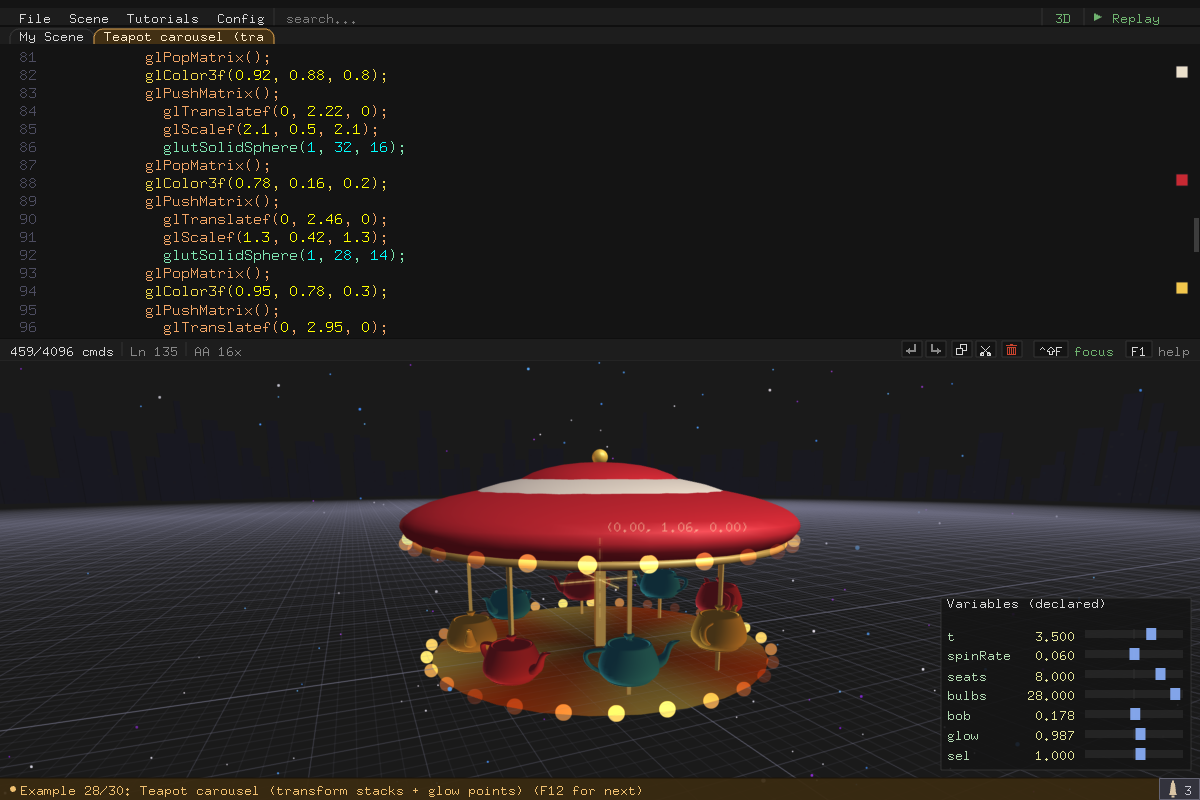
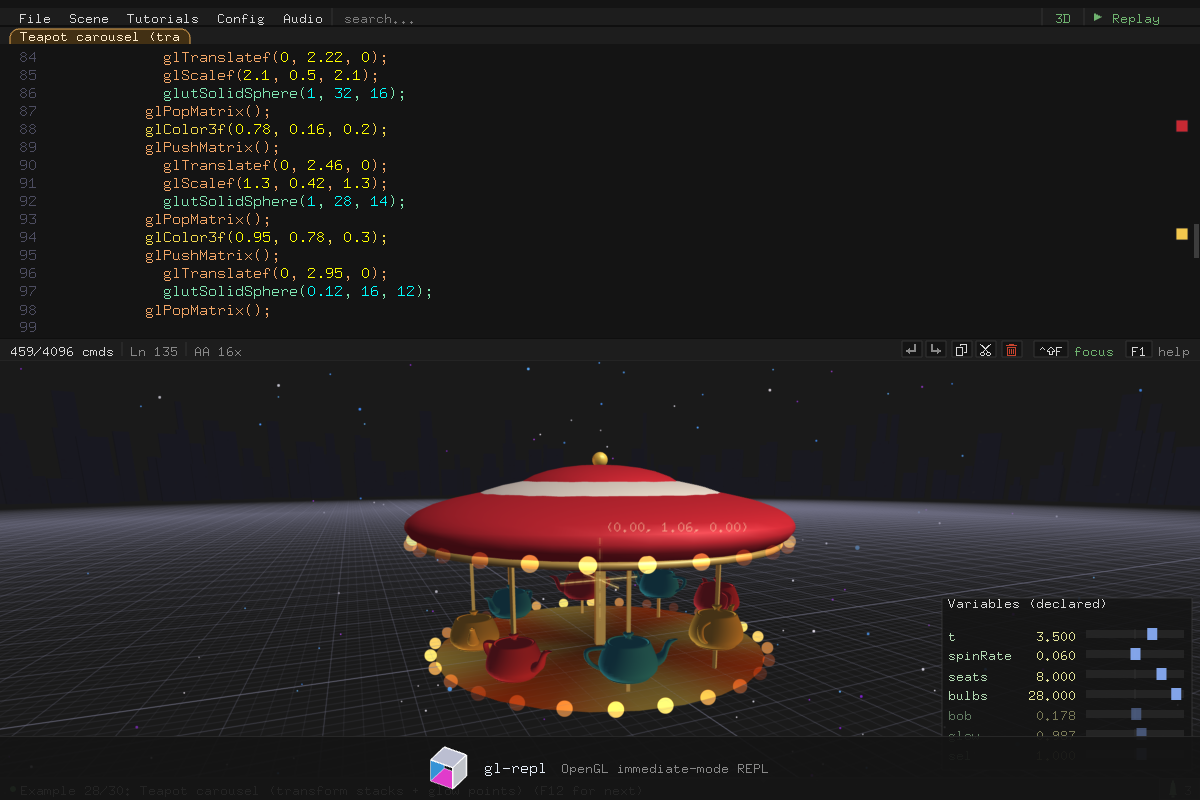
Retheme the status bar onto the UI token table
The status surfaces were the last chrome drawing hardcoded palettes:
the transient banner filled an amber (red-on-error) band over the
scene, the messages bell/list used blue-tinted grays, and the
rename/file-prompt modal strip a fixed blue - all clashing with the
neutral-plus-green-accent token theme the rest of the UI resolves
through ui/core/theme.h.

- Banner: neutral RAISED band + BORDER rule in every severity;
  severity moves into the dot/text (ACCENT dot + TEXT_PRIMARY for
  INFO, STATUS_ERR_TEXT for ERROR) plus a 3px STATUS_ERR
  leading-edge stripe so failures stay unmissable.
- Bell button/history list: RAISED/BORDER/TEXT_MUTED, hover on
  MENU_LABEL_HOVER_BG; bell glow warms toward accent/error red.
- Modal strip: ACCENT_GLOW_BG + ACCENT rule + TEXT_ON_HILITE, so it
  stays modal-looking but re-tints with the active scheme.
- New neutral token UI_TOK_STATUS_ERR_TEXT (#ff8e7e): STATUS_ERR is
  an accent/fill hue, too dark for body text on the dark band.

test_ui_panels' banner-structure assertion now expects the one extra
color call the error stripe adds. Regenerated the 13 doc screenshots
that showed the old amber banner.

diff --git a/src/ui/app/panels.c b/src/ui/app/panels.c
@@ -13,6 +13,7 @@
 #include "ui/core/metrics.h"
 #include "ui/app/repl_code_panel.h"
 #include "ui/app/scene_tabs.h"
+#include "ui/core/theme.h"
 #include "ui/subsystems/variable_panel.h"
 #include "ui/app/variable_panel_view.h"
 
@@ -20,33 +21,22 @@
 #include <stdio.h>
 #include <string.h>
 
-/* Two deliberately non-accent semantic surfaces, theme-stable in every
- * scheme (see theme.h's "named constant" bucket - fixed, non-theme
- * one-offs that must NOT follow the UI accent):
- *   - the inline-rename modal: a distinct blue so it reads as modal;
- *   - the bottom status banner: amber, the conventional status hue. */
-static const float k_rename_bar_bg[4]   = { 0.078f, 0.122f, 0.298f, 0.95f };
-static const float k_rename_bar_rule[4] = { 0.310f, 0.510f, 0.860f, 1.0f };
-static const float k_rename_bar_text[4] = { 0.780f, 0.870f, 1.000f, 1.0f };
-static const float k_status_bar_bg[3]   = { 0.227f, 0.165f, 0.063f };
-static const float k_status_bar_edge[3] = { 0.102f, 0.071f, 0.031f };
-static const float k_status_bar_fg[3]   = { 0.941f, 0.753f, 0.439f };
-/* Parallel red palette for UI_STATUS_ERROR. Same luminance band as the
- * amber set above so the bar still reads against the scene background;
- * only the hue differs. */
-static const float k_status_bar_bg_err[3]   = { 0.290f, 0.078f, 0.078f };
-static const float k_status_bar_edge_err[3] = { 0.137f, 0.027f, 0.027f };
-static const float k_status_bar_fg_err[3]   = { 1.000f, 0.557f, 0.494f };
+/* Status / modal-strip surfaces draw from the theme token table
+ * (theme.h bucket 1) like the rest of the chrome: neutral RAISED /
+ * BORDER surfaces, severity carried by the dot / text / edge stripe
+ * (UI_TOK_ACCENT for INFO, UI_TOK_STATUS_ERR[_TEXT] for ERROR) rather
+ * than by a colored band. The modal prompt strip rides the
+ * accent-derived tokens so it stays visually "modal" but re-tints with
+ * the active scheme. */
 
-/* Messages-button + recent-message-list palette. Neutral surfaces (not
- * theme tokens) so the affordance reads the same across schemes, matching
- * the deliberately non-accent status banner above. */
-static const float k_msgbtn_bg[4]    = { 0.137f, 0.137f, 0.157f, 0.95f };
-static const float k_msgbtn_bg_lit[4]= { 0.204f, 0.204f, 0.243f, 0.97f };
-static const float k_msgbtn_edge[4]  = { 0.392f, 0.392f, 0.451f, 1.0f };
-static const float k_msgbtn_fg[3]    = { 0.780f, 0.780f, 0.820f };
-static const float k_msglist_bg[4]   = { 0.090f, 0.090f, 0.110f, 0.96f };
-static const float k_msglist_edge[4] = { 0.353f, 0.353f, 0.404f, 1.0f };
+/* Alpha the translucent bottom-band surfaces render at (banner, bell
+ * button, history list) - slightly see-through over the scene, same
+ * value the old hardcoded palette used. */
+#define STATUS_SURFACE_ALPHA 0.95f
+/* Width of the UI_TOK_STATUS_ERR edge stripe on the banner's leading
+ * (left) edge - the "unmissable" error cue now that the band itself
+ * is neutral. */
+#define STATUS_ERR_STRIPE_W 3.0f
 
 void ui_panels_render_code_panel(const UiRenderSnapshot *snap,
                                  UiCodePanelOutput *out) {
@@ -109,7 +99,8 @@ static void draw_modal_strip(const UiRenderSnapshot *snap,
 
     if (!status_strip_begin(snap, &f))
         return;
-    status_strip_paint_bar(&f, k_rename_bar_bg, k_rename_bar_rule);
+    status_strip_paint_bar(&f, ui_rgba(UI_TOK_ACCENT_GLOW_BG),
+                           ui_rgba(UI_TOK_ACCENT));
 
     tx = f.sc_x + CODE_MARGIN_X;
     max_px = f.sc_w - 2 * CODE_MARGIN_X;
@@ -122,7 +113,7 @@ static void draw_modal_strip(const UiRenderSnapshot *snap,
         snprintf(trunc, sizeof(trunc), "%.*s", max_chars, msg);
         msg = trunc;
     }
-    glColor4fv(k_rename_bar_text);
+    ui_clr(UI_TOK_TEXT_ON_HILITE);
     gl2d_draw_string((float)tx, (float)f.text_y, msg, FONT_SMALL);
 
     status_strip_end();
@@ -324,7 +315,7 @@ static void status_history_render_button(const UiRenderSnapshot *snap,
                                          StatusAnim anim) {
     int bx, by, bw, bh;
     char label[32];
-    const float *bg;
+    const float *rest;
     float cx, ry, glow;
     float bell[3];
     int text_x, text_y, i;
@@ -333,12 +324,11 @@ static void status_history_render_button(const UiRenderSnapshot *snap,
         return;
 
     status_history_button_label(snap, label, (int)sizeof(label));
-    bg = (snap->status_history.open || anim.active)
-             ? k_msgbtn_bg_lit : k_msgbtn_bg;
-
-    glColor4fv(bg);
+    ui_clr_a((snap->status_history.open || anim.active)
+                 ? UI_TOK_MENU_LABEL_HOVER_BG : UI_TOK_RAISED,
+             STATUS_SURFACE_ALPHA);
     glRectf((float)bx, (float)by, (float)(bx + bw), (float)(by + bh));
-    glColor4fv(k_msgbtn_edge);
+    ui_clr(UI_TOK_BORDER);
     glBegin(GL_LINE_LOOP);
     glVertex2f((float)bx + 0.5f, (float)by + 0.5f);
     glVertex2f((float)(bx + bw) - 0.5f, (float)by + 0.5f);
@@ -347,16 +337,19 @@ static void status_history_render_button(const UiRenderSnapshot *snap,
     glEnd();
 
     /* Bell hue: rest neutral, warm to the live message color while it
-     * animates (amber for INFO, red for ERROR), brightened by the pulse. */
+     * animates (accent for INFO, error red for ERROR), brightened by
+     * the pulse. */
     int ry_i = by + (bh - BELL_ICON_H) / 2 + 1;
     cx = (float)(bx + MSGBTN_PAD_X) + BELL_ICON_W * 0.5f;
     ry = (float)ry_i;
     glow = anim.active ? (0.45f + 0.55f * anim.pulse) : 0.0f;
+    rest = ui_rgba(UI_TOK_TEXT_MUTED);
     {
         const float *hue = (snap->status.kind == UI_STATUS_ERROR)
-                               ? k_status_bar_fg_err : k_status_bar_fg;
+                               ? ui_rgba(UI_TOK_STATUS_ERR_TEXT)
+                               : ui_rgba(UI_TOK_ACCENT);
         for (i = 0; i < 3; i++)
-            bell[i] = k_msgbtn_fg[i] + (hue[i] - k_msgbtn_fg[i]) * glow;
+            bell[i] = rest[i] + (hue[i] - rest[i]) * glow;
     }
 
     /* Sound ring when the bell is emitting: a faint arc expanding off the
@@ -377,13 +370,13 @@ static void status_history_render_button(const UiRenderSnapshot *snap,
 
     text_x = bx + MSGBTN_PAD_X + BELL_ICON_W + BELL_GAP;
     text_y = by + (bh - FONT_SMALL_H) / 2 + 1;
-    glColor3fv(k_msgbtn_fg);
+    ui_clr(UI_TOK_TEXT_MUTED);
     gl2d_draw_string((float)text_x, (float)text_y, label, FONT_SMALL);
 }
 
 /* Draw the inline history list when the toggle is open. Newest entry sits
  * at the bottom (just above the button); older rows stack upward, dimmed
- * by age. ERROR entries take the red status hue, INFO the amber. */
+ * by age. ERROR entries take the error text hue, INFO the primary. */
 static void status_history_render_list(const UiRenderSnapshot *snap) {
     const UiStatusHistory *hist = &snap->status_history;
     int lx, ly, lw, lh, vis;
@@ -395,9 +388,9 @@ static void status_history_render_list(const UiRenderSnapshot *snap) {
     if (vis <= 0)
         return;
 
-    glColor4fv(k_msglist_bg);
+    ui_clr_a(UI_TOK_RAISED, STATUS_SURFACE_ALPHA);
     glRectf((float)lx, (float)ly, (float)(lx + lw), (float)(ly + lh));
-    glColor4fv(k_msglist_edge);
+    ui_clr(UI_TOK_BORDER);
     glBegin(GL_LINE_LOOP);
     glVertex2f((float)lx + 0.5f, (float)ly + 0.5f);
     glVertex2f((float)(lx + lw) - 0.5f, (float)ly + 0.5f);
@@ -424,8 +417,8 @@ static void status_history_render_list(const UiRenderSnapshot *snap) {
         if (idx < 0)
             continue;
         e = &hist->entries[idx];
-        fg = (e->kind == UI_STATUS_ERROR) ? k_status_bar_fg_err
-                                          : k_status_bar_fg;
+        fg = (e->kind == UI_STATUS_ERROR) ? ui_rgba(UI_TOK_STATUS_ERR_TEXT)
+                                          : ui_rgba(UI_TOK_TEXT_PRIMARY);
         /* Newest at full strength; older rows fade toward 0.45 alpha. */
         dim = 1.0f - 0.55f * ((float)r / (float)(vis > 1 ? vis - 1 : 1));
 
@@ -511,10 +504,11 @@ static void status_banner_render(const UiRenderSnapshot *snap,
                                  StatusAnim anim) {
     int sc_x, sc_y, sc_w, sc_h;
     int bx, by, bw, bh;
-    const float *bg_rgb, *edge_rgb, *fg_rgb;
+    const float *bg_rgb, *edge_rgb, *fg_rgb, *dot_rgb;
     float right, left_full, rev_left, y0, y1;
     float bg_a, lead_a, ta;
     int tx, text_y, dot_cx, dot_cy, max_px, max_chars, n, i;
+    int is_err;
     char msg[REPL_STATUS_TEXT_MAX];
 
     if (!anim.active || anim.ext <= 0.002f)
@@ -525,15 +519,15 @@ static void status_banner_render(const UiRenderSnapshot *snap,
     if (sc_w <= 0 || sc_h <= 0)
         return;
 
-    if (snap->status.kind == UI_STATUS_ERROR) {
-        bg_rgb = k_status_bar_bg_err;
-        edge_rgb = k_status_bar_edge_err;
-        fg_rgb = k_status_bar_fg_err;
-    } else {
-        bg_rgb = k_status_bar_bg;
-        edge_rgb = k_status_bar_edge;
-        fg_rgb = k_status_bar_fg;
-    }
+    /* Neutral band in every severity; the dot / text (and, for ERROR,
+     * the leading-edge stripe) carry the semantic hue. */
+    is_err   = snap->status.kind == UI_STATUS_ERROR;
+    bg_rgb   = ui_rgba(UI_TOK_RAISED);
+    edge_rgb = ui_rgba(UI_TOK_BORDER);
+    fg_rgb   = is_err ? ui_rgba(UI_TOK_STATUS_ERR_TEXT)
+                      : ui_rgba(UI_TOK_TEXT_PRIMARY);
+    dot_rgb  = is_err ? ui_rgba(UI_TOK_STATUS_ERR_TEXT)
+                      : ui_rgba(UI_TOK_ACCENT);
 
     right     = (float)bx;                       /* banner abuts the bell */
     left_full = (float)sc_x;
@@ -564,13 +558,22 @@ static void status_banner_render(const UiRenderSnapshot *snap,
     glVertex2f(right, y1);
     glEnd();
 
+    /* ERROR: solid stripe on the leading edge so failures stay
+     * unmissable on the neutral band. Rides the telescope with the
+     * leading edge's alpha. */
+    if (is_err) {
+        const float *st = ui_rgba(UI_TOK_STATUS_ERR);
+        glColor4f(st[0], st[1], st[2], lead_a);
+        glRectf(rev_left, y0, rev_left + STATUS_ERR_STRIPE_W, y1);
+    }
+
     /* Severity dot at the text's left margin; MUSIC swaps it for the
      * eighth-note glyph on the text baseline. */
     tx     = sc_x + CODE_MARGIN_X + 10;
     text_y = sc_y + (STATUSBAR_H - FONT_SMALL_H) / 2 + 1;
     dot_cx = sc_x + CODE_MARGIN_X + 3;
     dot_cy = sc_y + STATUSBAR_H / 2;
-    glColor4f(fg_rgb[0], fg_rgb[1], fg_rgb[2], ta);
+    glColor4f(dot_rgb[0], dot_rgb[1], dot_rgb[2], ta);
     if (snap->status.kind == UI_STATUS_MUSIC) {
         status_draw_note_bitmap((float)(dot_cx - 4), (float)text_y);
     } else {

diff --git a/src/ui/core/theme.h b/src/ui/core/theme.h
@@ -49,7 +49,10 @@ typedef enum {
     UI_TOK_CARET,                  /* text / search caret               */
     UI_TOK_STATUS_OK,              /* semantic success            #70c070 */
     UI_TOK_STATUS_WARN,            /* semantic warning            #e0a040 */
-    UI_TOK_STATUS_ERR,             /* semantic error              #c9442e */
+    UI_TOK_STATUS_ERR,             /* semantic error (accent/fill) #c9442e */
+    UI_TOK_STATUS_ERR_TEXT,        /* error body text on dark bg  #ff8e7e
+                                    * (STATUS_ERR is tuned as an accent /
+                                    * fill hue and is too dark for text) */
 
     /* Accent-derived - varies per theme row. */
     UI_TOK_ACCENT,                 /* primary accent (green #6fb36f)     */
@@ -69,7 +72,7 @@ typedef enum {
     UI_THEME_COUNT
 } UiTheme;
 
-/* The 16 neutral columns, shared verbatim by every theme row so a new
+/* The 17 neutral columns, shared verbatim by every theme row so a new
  * scheme only fills the 3 accent tokens below it. */
 #define UI_THEME_NEUTRAL_COLUMNS \
     [UI_TOK_SURFACE]              = { 0.114f, 0.114f, 0.114f, 1.0f }, \
@@ -87,7 +90,8 @@ typedef enum {
     [UI_TOK_CARET]                = { 0.950f, 0.800f, 0.240f, 1.0f }, \
     [UI_TOK_STATUS_OK]            = { 0.439f, 0.753f, 0.439f, 1.0f }, \
     [UI_TOK_STATUS_WARN]          = { 0.878f, 0.627f, 0.251f, 1.0f }, \
-    [UI_TOK_STATUS_ERR]           = { 0.788f, 0.267f, 0.180f, 1.0f }
+    [UI_TOK_STATUS_ERR]           = { 0.788f, 0.267f, 0.180f, 1.0f }, \
+    [UI_TOK_STATUS_ERR_TEXT]      = { 1.000f, 0.557f, 0.494f, 1.0f }
 
 extern const UiRgba g_ui_theme_table[UI_THEME_COUNT][UI_TOK_COUNT];
 extern int g_ui_theme;
@@ -113,7 +117,7 @@ static inline void ui_clr_a(UiThemeToken t, float a) {
 static inline void ui_theme_select(UiTheme th) { g_ui_theme = (int)th; }
 static inline UiTheme ui_theme_active(void) { return (UiTheme)g_ui_theme; }
 
-STATIC_ASSERT(UI_TOK_COUNT == 19,
+STATIC_ASSERT(UI_TOK_COUNT == 20,
               "UiThemeToken count changed - update g_ui_theme_table and test_ui_theme");
 STATIC_ASSERT(UI_THEME_COUNT == 6,
               "UiTheme row count changed - update g_ui_theme_table and test_ui_theme");

diff --git a/src/ui/app/state_types.h b/src/ui/app/state_types.h
@@ -62,10 +62,11 @@ typedef struct {
     int mode;
 } UiMemoryPanelState;
 
-/* Status banner severity. Renderer picks the palette from this. INFO is
- * the historical amber; ERROR is a red palette so failures (flatten
- * limit, command-buffer full, parse errors) are unmissable. MUSIC uses
- * the INFO palette but swaps the severity dot for an eighth-note glyph
+/* Status banner severity. Renderer picks the palette from this. INFO
+ * renders on the neutral themed band with an accent dot; ERROR adds the
+ * error text hue and a leading-edge stripe so failures (flatten limit,
+ * command-buffer full, parse errors) are unmissable. MUSIC uses the
+ * INFO palette but swaps the severity dot for an eighth-note glyph
  * (now-playing announcements). */
 typedef enum {
     UI_STATUS_INFO = 0,

diff --git a/tests/test_ui_panels.c b/tests/test_ui_panels.c
@@ -186,8 +186,10 @@ static void test_scene_status_error_banner(void) {
 
     ASSERT_TRUE("error banner draws (color calls exist)",
                 err_color4f > 0);
-    ASSERT_INT_EQ("error and info use same number of color calls",
-                  (int)err_color4f, (int)info_color4f);
+    /* Error renders the info structure plus exactly one extra color set:
+     * the UI_TOK_STATUS_ERR leading-edge stripe on the neutral band. */
+    ASSERT_INT_EQ("error adds exactly the edge-stripe color call",
+                  (int)err_color4f, (int)info_color4f + 1);
 }
 
 static void test_scene_status_no_render_when_inactive(void) {

diff --git a/tests/test_ui_theme.c b/tests/test_ui_theme.c
@@ -28,8 +28,8 @@ int main(void) {
                         g_ui_theme_table[th][t][3] > 0.0f);
 
     /* 2. Neutral chrome tokens are identical across every theme row
-     * (UI_TOK_SURFACE .. UI_TOK_STATUS_ERR is the theme-stable band). */
-    for (int t = UI_TOK_SURFACE; t <= UI_TOK_STATUS_ERR; t++)
+     * (UI_TOK_SURFACE .. UI_TOK_STATUS_ERR_TEXT is the theme-stable band). */
+    for (int t = UI_TOK_SURFACE; t <= UI_TOK_STATUS_ERR_TEXT; t++)
         for (int th = 1; th < UI_THEME_COUNT; th++)
             for (int k = 0; k < 4; k++)
                 ASSERT_F("neutral token stable across themes",

diff --git a/docs/ARCHITECTURE.md b/docs/ARCHITECTURE.md
@@ -861,7 +861,7 @@ subheading runs.
 
 All 2D UI chrome resolves color through [`src/ui/core/theme.h`](../src/ui/core/theme.h) (header-only,
 the [`gl_2d.h`](../src/ui/core/gl_2d.h) pattern) instead of scattered `glColor*` literals. It
-defines ~19 semantic `UI_TOK_*` tokens and a
+defines ~20 semantic `UI_TOK_*` tokens and a
 `g_ui_theme_table[UiTheme][UI_TOK_COUNT]` with six rows (green default,
 plus warm / cyan / amber / violet / mono from the design-rework
 bundle). Neutral chrome columns are identical across rows; only the
@@ -876,10 +876,14 @@ Color falls into three buckets:
 1. **Theme token** — accent + shared neutral chrome (surfaces, borders,
    dividers, text tiers, hover/selection): `ui_clr(UI_TOK_*)`.
 2. **Named constant** — fixed, non-theme one-offs that must keep their
-   hue in every scheme: the blue inline-rename modal, the amber status
-   banner, the ephemeral example-tab amber, the variable-row data
-   palette, dim/stale text tiers, the `#000` menubar rule. A local
-   `static const` documented at the use site.
+   hue in every scheme: the ephemeral example-tab amber, the
+   variable-row data palette, dim/stale text tiers, the `#000` menubar
+   rule. A local `static const` documented at the use site. (The status
+   banner, messages bell/list, and inline-rename modal strip moved to
+   bucket 1: neutral `RAISED`/`BORDER` surfaces with severity carried by
+   the dot/text/edge-stripe via `UI_TOK_ACCENT` /
+   `UI_TOK_STATUS_ERR[_TEXT]`, and the modal strip on the
+   accent-derived tokens so it re-tints per scheme.)
 3. **Left as-is** — computed/domain palettes that must not follow the
    accent: [`src/ui/subsystems/color_picker.c`](../src/ui/subsystems/color_picker.c) HSV math,
    [`src/ui/app/repl_code_panel.c`](../src/ui/app/repl_code_panel.c) syntax-highlight palette, the
@@ -892,8 +896,8 @@ single compile-time knob: a bare integer (`0` green … `5` mono — kept
 type-free so [`config.h`](../config.h) stays clear of UI types per its dependency
 note) used to initialize `g_ui_theme`. It is `#ifndef`-guarded and
 build-overridable, e.g. `make gl-repl CPPFLAGS=-DUI_THEME_DEFAULT=1`;
-[`theme.h`](../src/ui/core/theme.h) `STATIC_ASSERT`s the value is in range against the [`UiTheme`](../src/ui/core/theme.h#L62)
-enum. The [`ui_theme_select()`](../src/ui/core/theme.h#L113) / [`ui_theme_active()`](../src/ui/core/theme.h#L114) seam keeps call
+[`theme.h`](../src/ui/core/theme.h) `STATIC_ASSERT`s the value is in range against the [`UiTheme`](../src/ui/core/theme.h#L65)
+enum. The [`ui_theme_select()`](../src/ui/core/theme.h#L117) / [`ui_theme_active()`](../src/ui/core/theme.h#L118) seam keeps call
 sites stable for a future runtime switcher (e.g. a [`GlrConfigKey`](../src/app/glr_config.h#L29)
 cycle) that would relocate the active index into one `.c` TU.
 [`tests/test_ui_theme.c`](../tests/test_ui_theme.c) (header-only) guards table integrity: no
